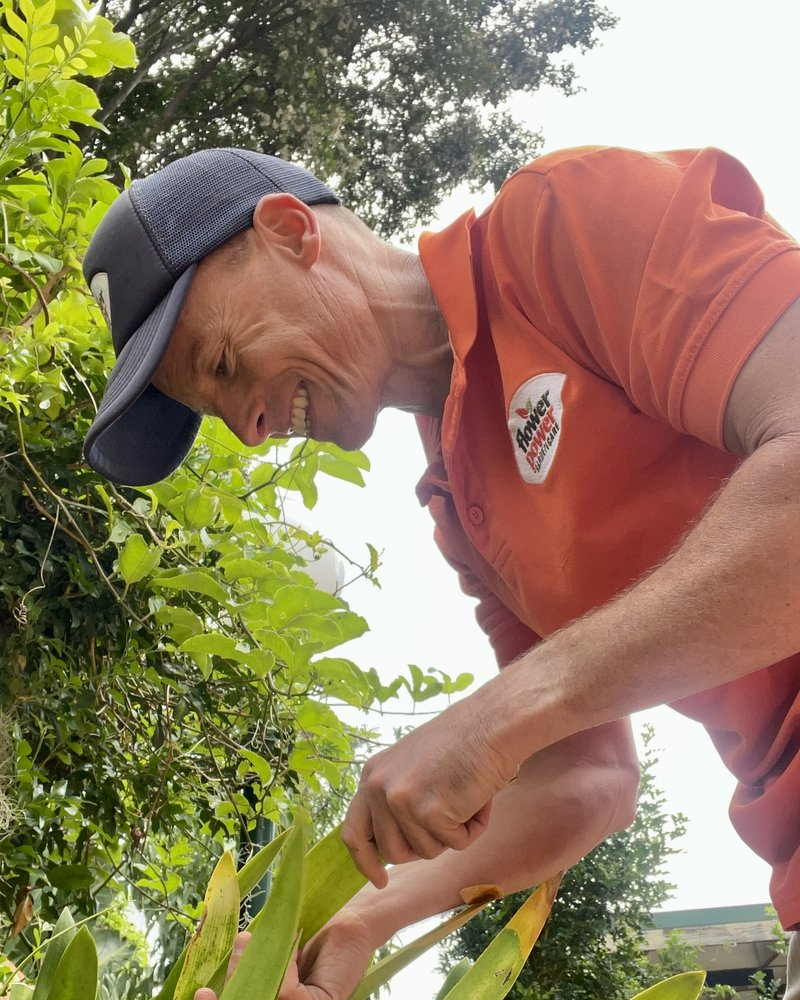
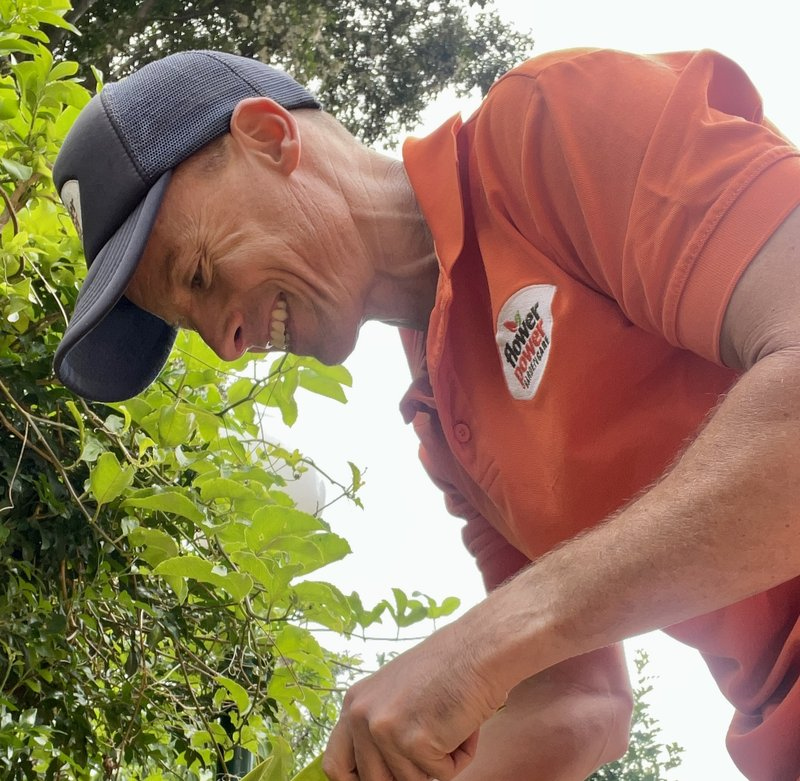
Crop founder photo tighter (now square), adjust column width

diff --git a/index.html b/index.html
@@ -318,16 +318,16 @@
 
   /* Founder */
   .founder-grid {
-    display: grid; grid-template-columns: 260px 1fr; gap: 56px; align-items: start;
+    display: grid; grid-template-columns: 300px 1fr; gap: 56px; align-items: start;
   }
   .founder-card {
     display: flex; flex-direction: column;
   }
   .founder-photo {
     width: 100%;
-    height: 340px;
+    aspect-ratio: 1 / 1;
     object-fit: cover;
-    object-position: center 30%;
+    object-position: center center;
     display: block;
     border-radius: 8px;
     filter: grayscale(100%) contrast(1.05) brightness(0.95);
@@ -413,8 +413,7 @@
     .flow-grid { grid-template-columns: 1fr; }
     .flow-arrow { transform: rotate(90deg); }
     .founder-grid { grid-template-columns: 1fr; gap: 32px; align-items: start; }
-    .founder-card { max-width: 260px; }
-    .founder-photo { height: auto; aspect-ratio: 4 / 5; }
+    .founder-card { max-width: 280px; }
     .footer-top { grid-template-columns: 1fr 1fr; gap: 32px; }
     .footer-bottom { flex-direction: column; gap: 12px; }
   }